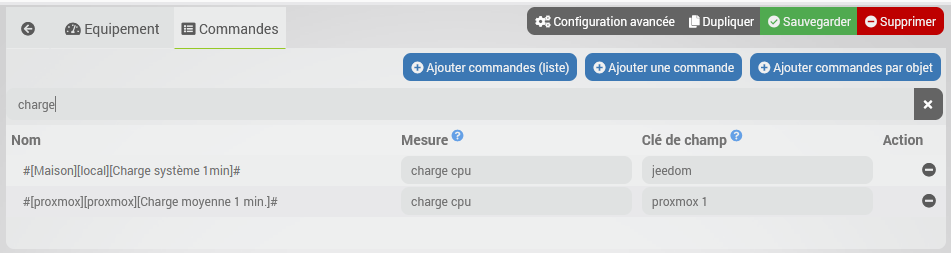
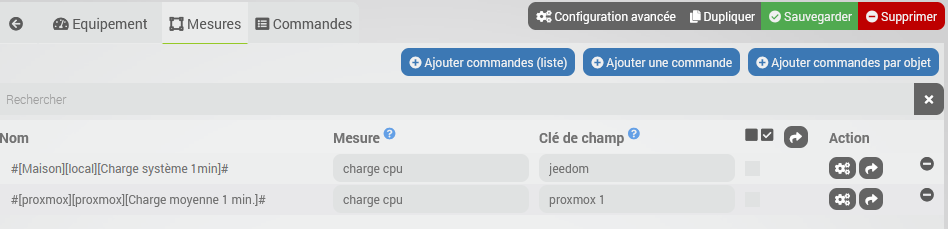
doc influx

diff --git a/influxdb/fr_FR/index.md b/influxdb/fr_FR/index.md
@@ -9,20 +9,22 @@ pluginId: influxdb
 
 Plugin permettant la connexion à une DB InfluxDB. Il permet d'envoyer facilement les informations voulues en sélectionnant simplement les commandes correspondantes dans une liste ce qui permet d'externaliser l'historique qui peut ensuite être consulté via Grafana par exemple.
 
+Le plugin permet également d'exporter l'historique des commandes Jeedom vers InfluxDB.
+
 # Installation
 
 Afin d’utiliser le plugin, vous devez le télécharger, l’installer et l’activer comme tout plugin Jeedom.
 
 # Configuration du plugin
 
-Il n'y a pas de configuration particulière à faire, le plugin utilise éventuellement un cron, selon la configuration des équipements, pour l'envoi des mesures.
+Il n'y a pas de configuration particulière à faire, le plugin utilise éventuellement le cronDaily pour la remise à zéro des compteurs.
 
 # Les équipements
 
 Un équipement Jeedom correspond à un connecteur InfluxDB.
 
 Chaque connecteur va se connecter et envoyer les données à une et une seule instance influxDB mais vous pouvez avoir autant de connecteur que nécessaire.
-Le plugin gère InfluxDB v1 et v2, le principe de base entre les deux reste identique mais la façon de se connecter change entre les deux.
+Le plugin gère InfluxDB v1 et v2, le principe de base entre les deux reste identique mais la façon de se connecter change.
 
 ## InfluxDB v1
 
@@ -70,9 +72,21 @@ Exemple de recherche:
 2. La liste n'affichera que les commandes qui n'ont pas encore été sélectionnées pour cet équipement / connecteur.
 3. Pour sélectionner une commande et l'envoyer à InfluxDB il suffit de cliquer sur le bouton **Ajouter**. N'oubliez pas de sauvegarder l'équipement après avoir ajouté toutes les commandes voulues.
 
+## Export de l'historique Jeedom vers InfluxDB
+
+Pour exporter l'historique vous devez vous rendre dans l'onglet _Mesures_ dans lequel vous avez configurer les commandes de vos équipements Jeedom à envoyer.
+
+Vous pouvez:
+
+- soit envoyer l'historique d'une commande particulière en cliquant sur le bouton _Exporter_ de la ligne correspondante dans les actions
+- soit cocher/décocher les mesures voulues (et cocher/décocher tout avec les sélecteurs de la colonne) et ensuite cliquer sur le bouton _Exporter_ situé dans la zone supérieur de la colonne.
+
+Dans les 2 cas, l'étape suivante vous demandera la date de début et la date de fin voulue pour l'export et ensuite la tâche sera programmée.
+Cela peut prendre un peu de temps en fonction de la quantité de données à exporter mais cela sera transparent car la tâche s'exécutera en arrière plan.
+
 # Les commandes
 
-Chaque équipement/connecteur dispose des commandes suivantes:
+Les commandes de l'équipement/connecteur InfluxDb sont visibles dans le 3ème onglet:
 
 - **Envoyer tout** permet d'envoyer toutes les valeurs actuelles des mesures configurées sur l'équipement, cela n'envoi pas l'historique des commandes, uniquement la valeur courante.
 - **Statut** donne l'état du connecteur, sera égal à 1 si aucun problème n'est détecté, 0 dans le cas contraire.

diff --git a/influxdb/fr_FR/changelog.md b/influxdb/fr_FR/changelog.md
@@ -7,7 +7,8 @@ pluginId: influxdb
 
 # 2022-01-25
 
-- Ajout de l'export de l'historique vers InfluxDB
+- Refonte du "moteur" du plugin pour effectuer toutes les tâches dans des processus dédiés de façon asynchrone pour ne pas impacter les autres processus sur votre Jeedom ni la navigation dans le dashboard
+- Ajout de l'export de l'historique vers InfluxDB (qui bénéficie de la refonte expliquée ci-dessus)
 - Ajout d'une commande **Envoyer tout** pour forcer l'envoi de la valeur actuelle de toutes les commandes sélectionnées dans l'équipement
 - Ajout de plusieurs commandes info pour connaître l'état de santé du connecteur: **Statut**, **Dernière erreur**... (voir documentation)
 - Ajout de l'information de santé des connecteurs dans la page santé générale
